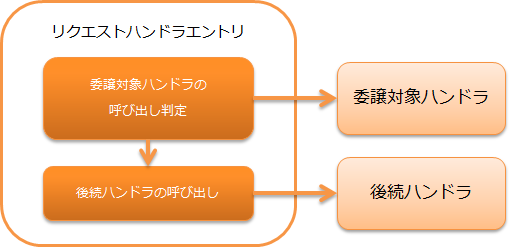
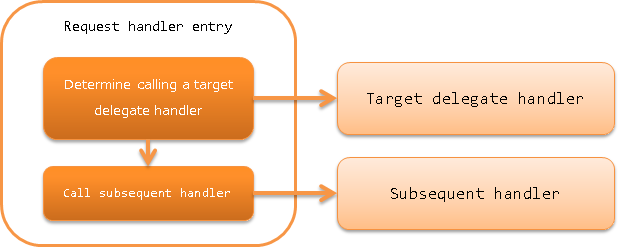
リクエストハンドラエントリページを英語化

diff --git a/en/application_framework/application_framework/handlers/common/request_handler_entry.rst b/en/application_framework/application_framework/handlers/common/request_handler_entry.rst
@@ -1,34 +1,34 @@
 .. _request_handler_entry:
 
-リクエストハンドラエントリ
+Request Handler Entry
 ========================================
-.. contents:: 目次
+.. contents:: Table of contents
   :depth: 3
   :local:
 
 
-本ハンドラは、特定のリクエストパスのみ委譲先のハンドラを呼び出す特殊なハンドラである。
-本ハンドラを使用することで、「ウェブアプリケーションで特定のURLのみハンドラの処理を行う」といった機能を、
-ハンドラを修正することなく実現できる。
+This handler is a special handler that calls a delegate handler only for a specific request path. By using this handler,
+it is possible to implement functions such as "handler processing is performed only for a specific URL in the web application"
+without modifying the handler.
 
-本ハンドラの主な用途は、 :ref:`resource_mapping` を使用した、「静的コンテンツのダウンロードを一括処理する」機能の実現である。
-その他にも、 :ref:`database_connection_management_handler` や :ref:`transaction_management_handler` と同時に使用することで
-「特定のURLのみ使用するデータベース接続を変える」といった用途にも使用できる。
+The main purpose of this handler is to implement the "batch process for downloading of static contents" function using :ref:`resource_mapping`.
+In addition, this handler can also be used for purposes such as "changing the database connection that uses only a specific URL"
+by using the handler together with :ref:`database_connection_management_handler` and :ref:`transaction_management_handler`.
 
-本ハンドラでは、以下の処理を行う。
+This handler performs the following process.
 
-* リクエストパスがマッチするか判定を行い、対象であれば委譲先のハンドラを呼び出す。
+* Determine whether the request path matches and call the delegate handler if it is a target.
 
 
-処理の流れは以下のとおり。
+The process flow is as follows.
 
 .. image:: ../images/RequestHandlerEntry/flow.png
 
-ハンドラクラス名
+Handler class name
 --------------------------------------------------
 * :java:extdoc:`nablarch.fw.RequestHandlerEntry`
 
-モジュール一覧
+Module list
 --------------------------------------------------
 .. code-block:: xml
 
@@ -37,30 +37,30 @@
     <artifactId>nablarch-core</artifactId>
   </dependency>
 
-制約
+Constraints
 ------------------------------
-なし。
+None.
 
 .. _request_handler_entry_usage:
 
-本ハンドラの使用例
-------------------------------
+Usage example of this handler
+-----------------------------------
 
-本ハンドラを使用する際は、処理対象とするリクエストパスを指定する ``requestPattern`` プロパティと、
-委譲先のハンドラを指定する ``handler`` プロパティを設定する。
+When using this handler, the ``requestPattern`` property that specifies the request path for processing,
+and the ``handler`` property that specifies the delegate handler are configured.
 
-:ref:`resource_mapping` を使用して、JPEGファイルの静的コンテンツをダウンロードする設定例を以下に示す。
+A configuration example for downloading the static contents of JPEG files using :ref:`resource_mapping` is shown below.
 
 .. code-block:: xml
 
-  <!-- 画像ファイルの静的リソースダウンロードを行うハンドラ -->
+  <!-- Handler for downloading static resources of image files-->
   <component name="imgMapping"
              class="nablarch.fw.web.handler.ResourceMapping">
     <property name="baseUri" value="/"/>
     <property name="basePath" value="servlet:///"/>
   </component>
 
-  <!-- ハンドラキュー構成 -->
+  <!-- Handler queue configuration -->
   <component name="webFrontController"
              class="nablarch.fw.web.servlet.WebFrontController">
 
@@ -72,74 +72,74 @@
         <component class="nablarch.common.io.FileRecordWriterDisposeHandler" />
         <component class="nablarch.fw.web.handler.HttpResponseHandler"/>
 
-        <!-- 拡張子が ".jpg" である静的JPGファイルのダウンロードを行う設定 -->
+        <!-- Configuration for downloading static JPG files with the file extension ".jpg"-->
         <component class="nablarch.fw.RequestHandlerEntry">
           <property name="requestPattern" value="//*.jpg"/>
           <property name="handler" ref="imgMapping"/>
         </component>
 
         <!--
-          "*.jpg" で終わるJPEGファイルのダウンロード以外のリクエストでは、
-          以下のハンドラの呼び出しが行われる
+          For requests other than downloading JPEG files ending with "*.jpg",
+          the following handler is called
           -->
         <component-ref name="multipartHandler"/>
         <component-ref name="sessionStoreHandler" />
 
 
 
-リクエストパターン指定のバリエーション
+Variation of request pattern specification
 --------------------------------------------------
 
-:ref:`request_handler_entry_usage` の設定例からわかるとおり、本ハンドラに指定する ``requestPattern`` プロパティ
-には、 ``//*.jpg`` のようなGlob式に似た書式での設定が行える。
+As seen from the configuration example of :ref:`request_handler_entry_usage`, the ``requestPattern`` property specified in this handler
+can be configured in a format similar to Glob expression such as ``//*.jpg``.
 
-ワイルドカードの設定例を以下に示す。
+A configuration example for wildcard is shown below.
 
 
        +----------------+------------------+-------------------------------------------+
-       | requestPattern | リクエストパス   | 結果                                      |
+       | requestPattern | Request path     | Results                                   |
        +================+==================+===========================================+
-       | /              |  /               | 呼ばれる                                  |
+       | /              |  /               | Is called                                 |
        |                +------------------+-------------------------------------------+
-       |                |  /index.jsp      | 呼ばれない                                |
+       |                |  /index.jsp      | Is not called                             |
        +----------------+------------------+-------------------------------------------+
-       | /*             | /                | 呼ばれる                                  |
+       | /*             | /                | Is called                                 |
        |                +------------------+-------------------------------------------+
-       |                | /app             | 呼ばれる                                  |
+       |                | /app             | Is called                                 |
        |                +------------------+-------------------------------------------+
-       |                | /app/            | 呼ばれない (* は'/'にはマッチしない)      |
+       |                | /app/            | Is not called (* does not match '/')      |
        |                +------------------+-------------------------------------------+
-       |                | /index.jsp       | 呼ばれない (* は'.'にはマッチしない)      |
+       |                | /index.jsp       | Is not called (* does not match '.')      |
        +----------------+------------------+-------------------------------------------+
-       | /app/\*.jsp    | /app/index.jsp   | 呼ばれる                                  |
+       | /app/\*.jsp    | /app/index.jsp   | Is called                                 |
        |                +------------------+-------------------------------------------+
-       |                | /app/admin       | 呼ばれない                                |
+       |                | /app/admin       | Is not called                             |
        +----------------+------------------+-------------------------------------------+
-       | /app/\*/test   | /app/admin/test  | 呼ばれる                                  |
+       | /app/\*/test   | /app/admin/test  | Is called                                 |
        |                +------------------+-------------------------------------------+
-       |                | /app/test/       | 呼ばれない                                |
+       |                | /app/test/       | Is not called                             |
        +----------------+------------------+-------------------------------------------+
 
 
-また、最後尾の’/’が’//’と重ねられていた場合、それ以前の文字列について前方一致すればマッチ成功と判定する記法も使用できる。
+When the '/' in the last line is overlapped with '//', a notation determining that the match is successful if the string before is a forward match can also be used.
 
-以下に設定例を示す。
+A configuration example is shown below.
 
 
        +----------------+-------------------------+-------------------------------------------+
-       | requestPattern | リクエストパス          | 結果                                      |
+       | requestPattern | Request path            | Results                                   |
        +================+=========================+===========================================+
-       | /app//         | /                       | 呼ばれない                                |
+       | /app//         | /                       | Is not called                             |
        |                +-------------------------+-------------------------------------------+
-       |                | /app/                   | 呼ばれる                                  |
+       |                | /app/                   | Is called                                 |
        |                +-------------------------+-------------------------------------------+
-       |                | /app/admin/             | 呼ばれる                                  |
+       |                | /app/admin/             | Is called                                 |
        |                +-------------------------+-------------------------------------------+
-       |                | /app/admin/index.jsp    | 呼ばれる                                  |
+       |                | /app/admin/index.jsp    | Is called                                 |
        +----------------+-------------------------+-------------------------------------------+
-       | //\*.jsp       | /app/index.jsp          | 呼ばれる                                  |
+       | //\*.jsp       | /app/index.jsp          | Is called                                 |
        |                +-------------------------+-------------------------------------------+
-       |                | /app/admin/index.jsp    | 呼ばれる                                  |
+       |                | /app/admin/index.jsp    | Is called                                 |
        |                +-------------------------+-------------------------------------------+
-       |                | /app/index.html         | 呼ばれない('\*.jsp'がマッチしない)        |
+       |                | /app/index.html         | Is not called (does not match '\*.jsp')   |
        +----------------+-------------------------+-------------------------------------------+
